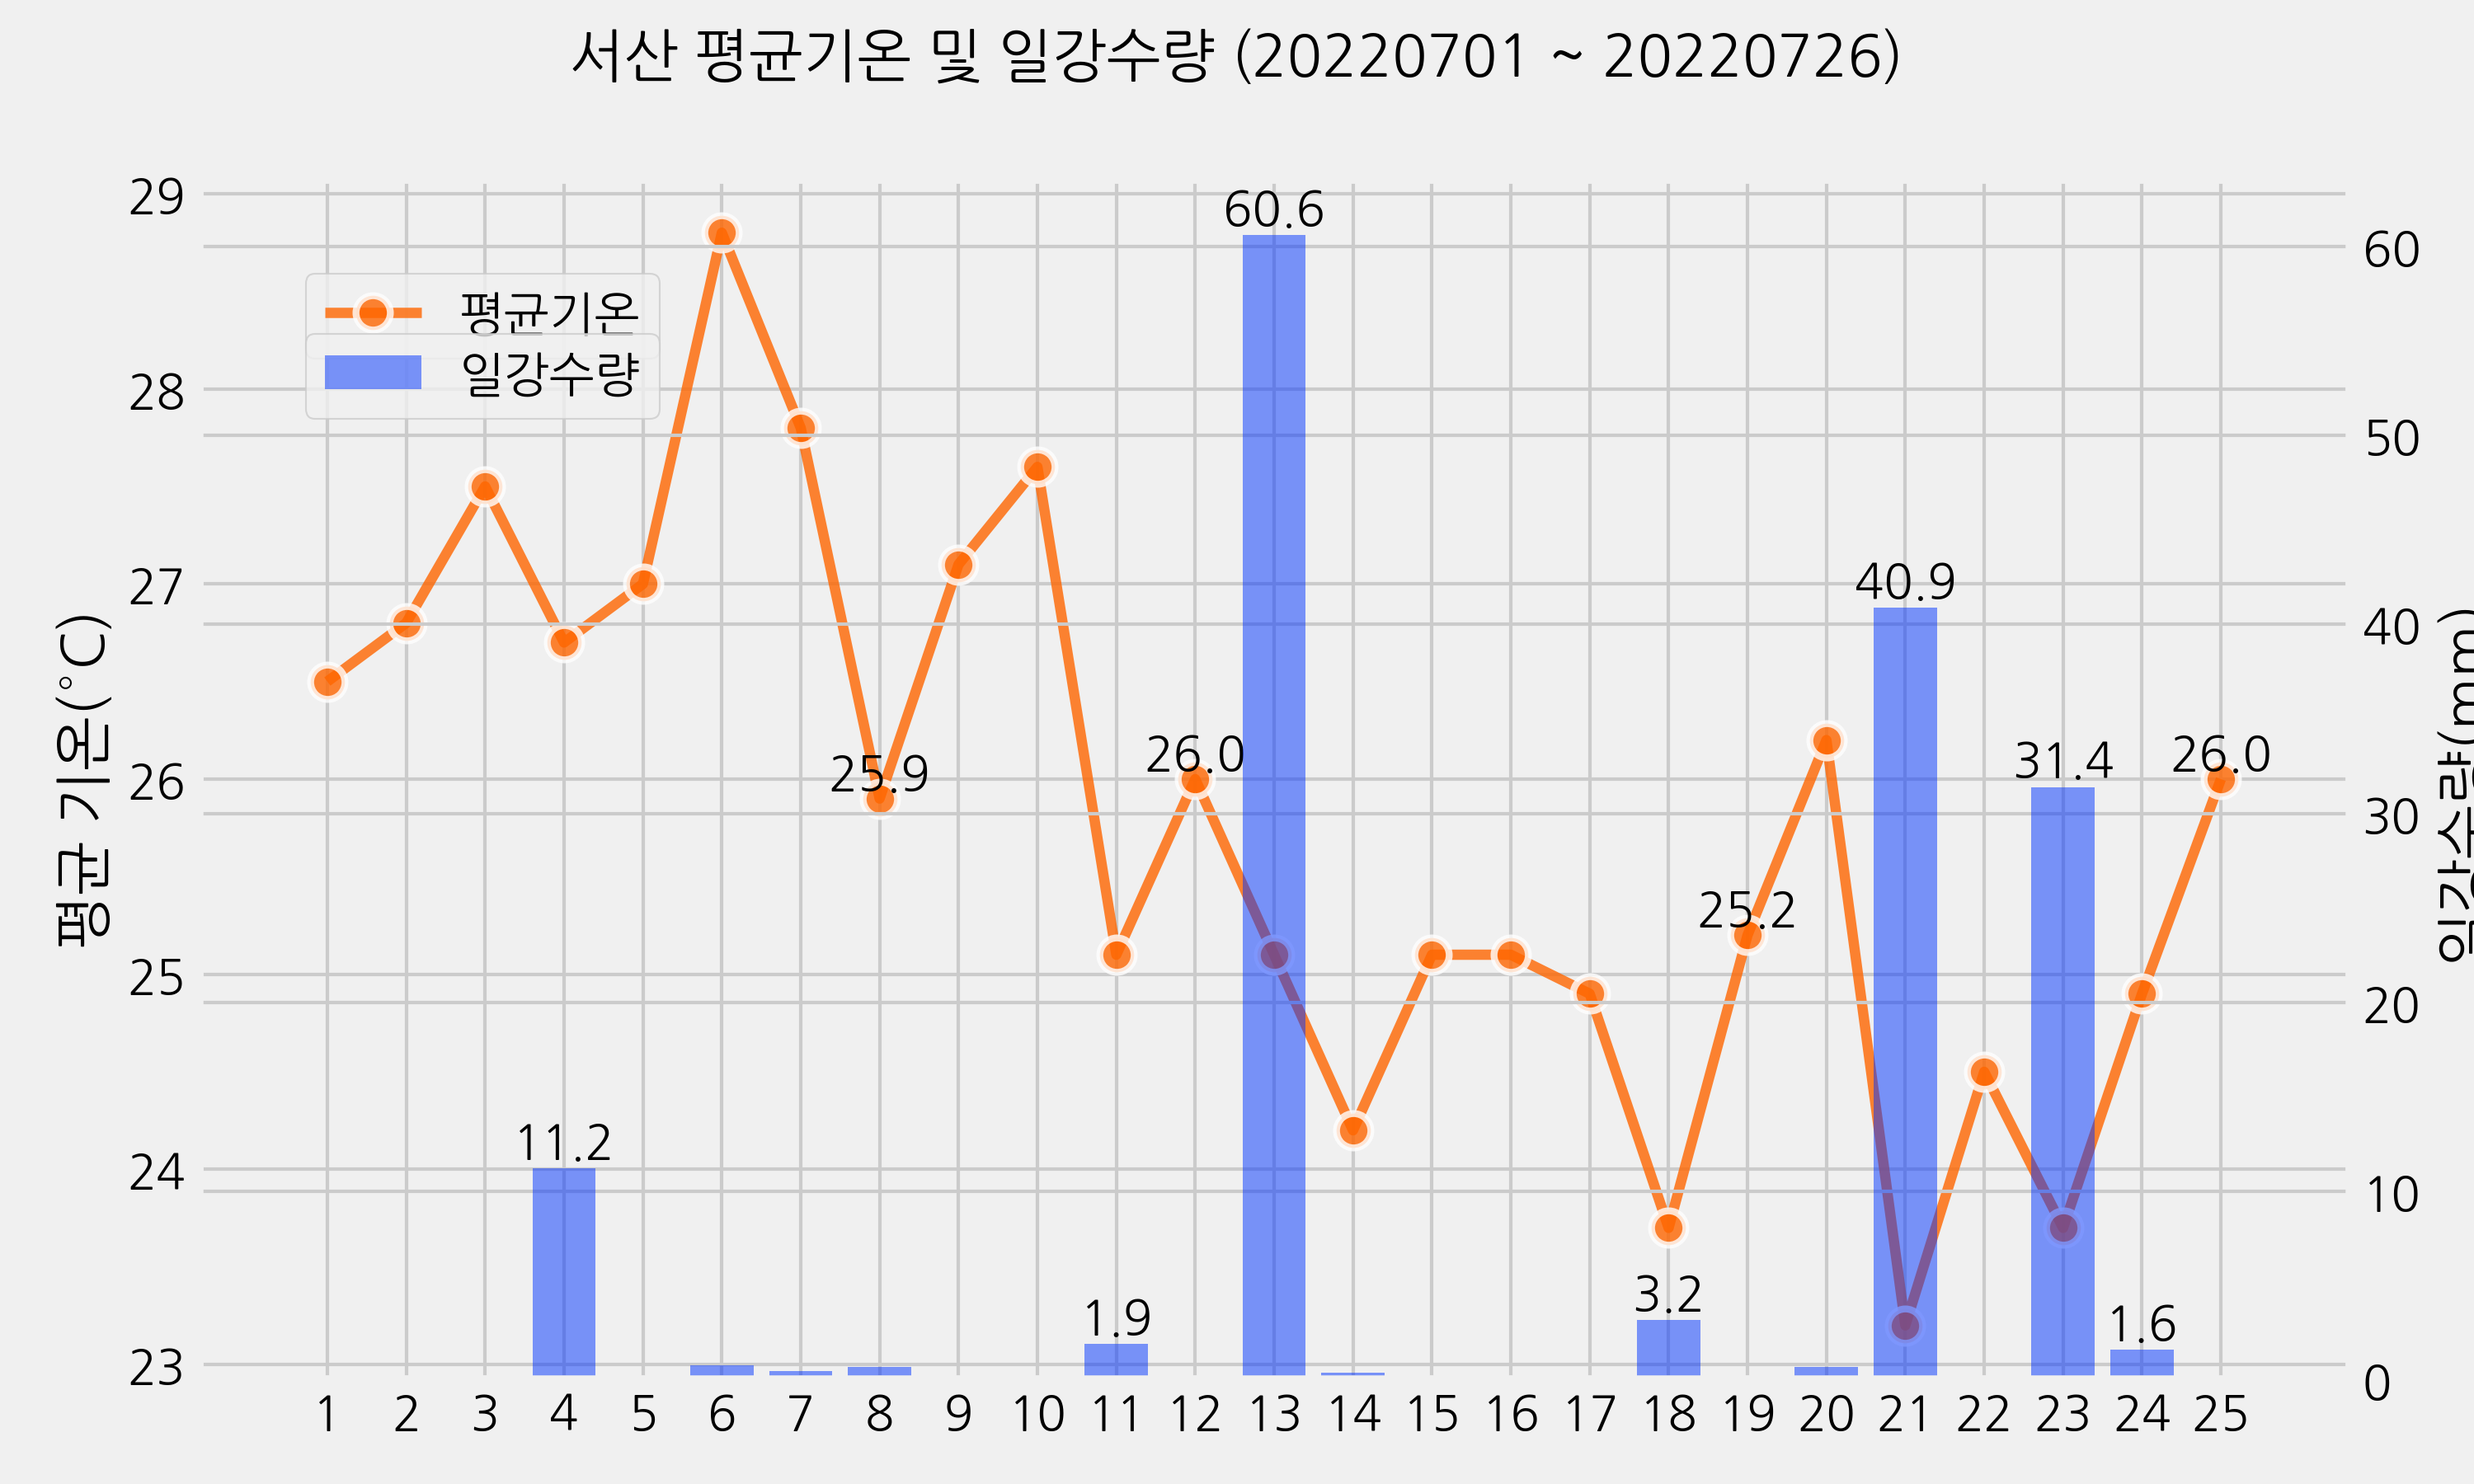
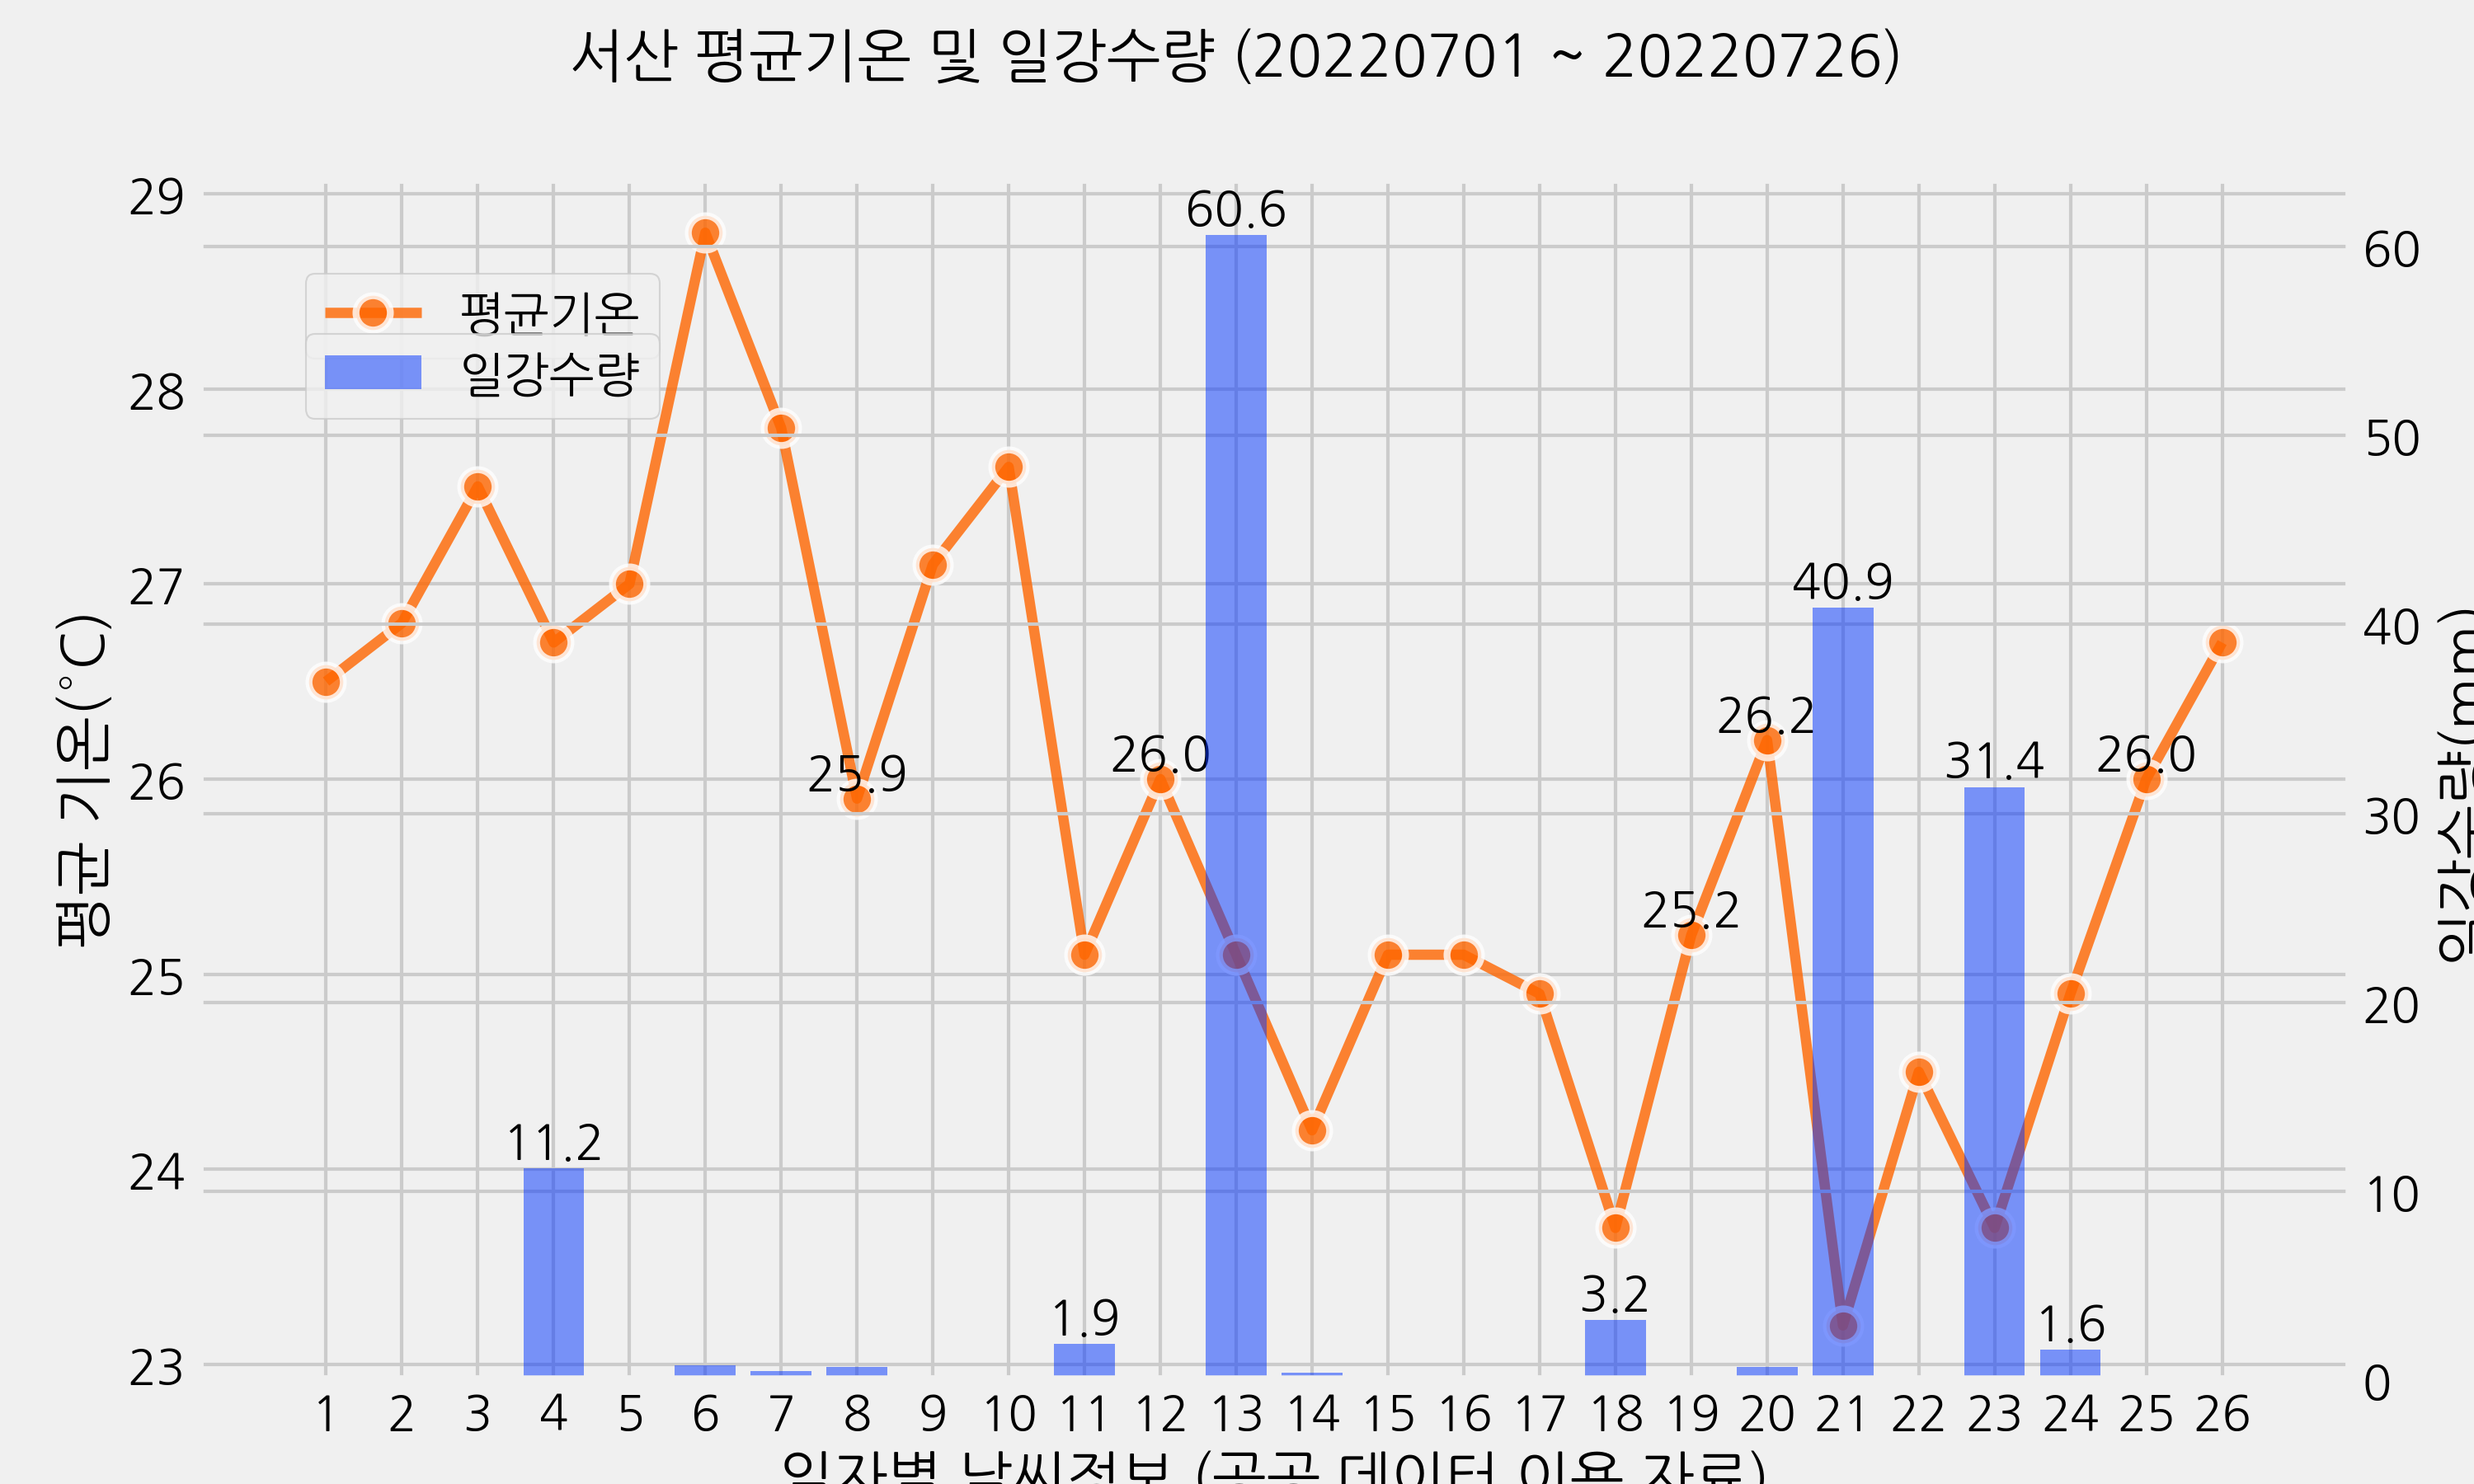
평균기온 수평라인 및 레이블 추가

Changed region(s): [[0.155, 0.1244, 0.93, 1.0], [0.124, 0.4356, 0.155, 0.4667]]

diff --git a/04.기상청_지역별_평균기온_강수량_시각화.py b/04.기상청_지역별_평균기온_강수량_시각화.py
@@ -16,7 +16,6 @@ plt.rc('font', family = 'NanumGothic') # 시스템에 폰트설치후, 시스템
 plt.rc('axes', unicode_minus = False) # 한글 폰트 사용시 마이너스 폰트가 깨지는 문제 해결
 plt.style.use('fivethirtyeight') # 스타일을 사용해 봅니다.
 
-# %%
 # 기상청 지역별 평균기온 및 강수량 시각화
 from datetime import datetime, timedelta
 import pandas as pd
@@ -26,14 +25,27 @@ import json
[1 lines of base64/hex data omitted]
 pageNo=1
 numOfRows=31
-startDt='20220701'
-endDt='20220730'
+startDt='20220601'
+endDt='20220630'
 stnIds=112 # 서산(129), 인천(112), 서울(108)
 
 # 날짜 유효성 검사 및 Fix
-first_day = datetime.today().strftime('%Y%m01')
-yesterday = datetime.today() - timedelta(days=1)
+today = datetime.today()
+first_day = today.strftime('%Y%m01')
+yesterday = today - timedelta(days=1)
 yesterday = yesterday.strftime('%Y%m%d')
+
+year = today.strftime('%Y')
+month = today.strftime('%m')
+day = today.strftime('%d')
+
+# 당월 마지막 날짜
+import calendar
+first_day_of_month = '01'
+last_day_of_month = calendar.monthrange(int(year), int(month))[1]
+
+startDt = year + month + first_day_of_month
+endDt = year + month + str(last_day_of_month)
 
 if startDt > yesterday:
   startDt = first_day
@@ -77,20 +89,24 @@ df['월'] = dt.month
 df['일'] = dt.day
 
 # 중간 10개의 온도 추출
-all_temps = df['평균 기온'].values.astype(float)
-max_temps = df.sort_values(by='평균 기온', ascending=False).head(10)['평균 기온'].to_list()
-min_temps = df.sort_values(by='평균 기온', ascending=True).head(10)['평균 기온'].to_list()
+# all_temps = df['평균 기온'].values.astype(float)
+# max_temps = df.sort_values(by='평균 기온', ascending=False).head(10)['평균 기온'].to_list()
+# min_temps = df.sort_values(by='평균 기온', ascending=True).head(10)['평균 기온'].to_list()
 
-temps = pd.Series(all_temps)
-for value in max_temps:
-    temps.drop(temps[temps == value].index, inplace=True)
-for value in min_temps:
-    temps.drop(temps[temps == value].index, inplace=True)
+# temps = pd.Series(all_temps)
+# for value in max_temps:
+#     temps.drop(temps[temps == value].index, inplace=True)
+# for value in min_temps:
+#     temps.drop(temps[temps == value].index, inplace=True)
+
+mean_temp = df['평균 기온'].mean()
+max_temp = df['최고 기온'].max()
+min_temp = df['최저 기온'].min()
 
 # 중간값중 중복값 제거
-temps = temps.drop_duplicates()
-temp_max = temps.max()
-temp_min = temps.min()
+# temps = temps.drop_duplicates()
+# temp_max = temps.max()
+# temp_min = temps.min()
 
 # 지역코드 정의
 df_city = pd.read_csv('data/city.csv', encoding='utf-8')
@@ -106,10 +122,11 @@ ax1.set_ylabel('평균 기온(°C)')
 ax1.set_xticklabels(df['일'], ha='center', rotation=0)
 ax1.legend(loc=(0.05, 0.85))
 for idx, val in enumerate(df['평균 기온']):
-  if val >= temp_min and val <= temp_max: # 중간 기온만 출력 (강수량과 겹침 방지)
+  if val == temp_max: # 중간 기온만 출력 (강수량과 겹침 방지)
     ax1.text(idx, val, str(val), ha='center', va='bottom')
 
-ax1.set_xlabel('일자별 날씨정보 (공공 데이터 이용 자료)')
+ax1.axhline(mean_temp, color="red", linestyle=":", linewidth=2, alpha=0.5)
+ax1.set_xlabel('과거 일자별 날씨정보 (공공 데이터 이용 자료)')
 
 ax2 = ax1.twinx() # x축을 공유하는 축을 생성
 p2 = ax2.bar(df.index, df['일강수량'], color='#0033ff', alpha=0.5, label='일강수량')
@@ -118,8 +135,6 @@ ax2.legend(loc=(0.05, 0.80))
 for idx, val in enumerate(df['일강수량']):
   if val >= 1.0: # 1mm 이상만 출력
     ax2.text(idx, val+0.05, str(val), ha='center', va='bottom')
-
-
 
 # 그래프 저장
 fig.savefig('data/'+title+'.png', dpi=300)
